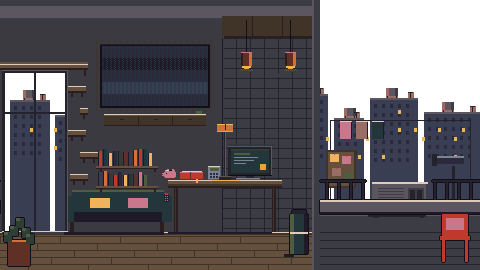
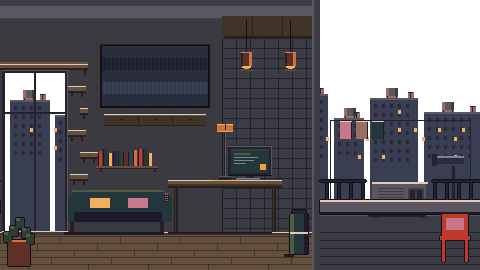
Update the live alivelog room with a board script.
Replace alivelog-room with the uploaded live20b files, unchanged.

Changed region(s): [[0.6562, 0.5333, 0.75, 0.7111], [0.1875, 0.6222, 0.3438, 0.7111], [0.3438, 0.5926, 0.4688, 0.6815]]

diff --git a/alivelog-room/board.js b/alivelog-room/board.js
@@ -1,0 +1,88 @@
+// ---- 軟木板便利貼（磁磚牆上，小版 x250–292、y88–128）：狀態存 localStorage 'alivelog.board' ----
+// 點板上空白處＝新增（下方一行輸入框＋5 色）；點便利貼＝放大編輯；拖曳（移動 >4px 才開始）；長按 0.7 秒＝進度圈滿了撕掉（放開就取消）
+// 板子本體由本檔畫（room_fg 背景裡不畫，免得重複）；便利貼上的字只畫成橫條，不在房間畫面上顯示內容
+(function(){
+const KEY='alivelog.board',BX=250,BY=88,BW=43,BH=41,IX0=BX+3,IY0=BY+3,IX1=BX+BW-3,IY1=BY+BH-3,NW=12,NH=11,MAX=6,LONG=700,DRAG=4;
+const COLS=['#f0c85a','#dc8c96','#6eb4aa','#a0c86e','#c8c8be'];
+const st=(()=>{try{const j=JSON.parse(localStorage.getItem(KEY));if(j&&Array.isArray(j.notes))return j}catch(e){}return{notes:[]}})();
+const save=()=>localStorage.setItem(KEY,JSON.stringify(st));
+const cv=document.createElement('canvas');cv.width=480;cv.height=270;cv.className='px';cv.id='boardcv';cv.style.pointerEvents='none';
+document.getElementById('fg').after(cv);   // 在房間圖之後、lights.js 調暗層之前 → 關燈時一起變暗
+const g=cv.getContext('2d');g.imageSmoothingEnabled=false;
+const R=(x,y,w,h,c)=>{g.fillStyle=c;g.fillRect(x,y,w,h)};
+// 軟木斑點（固定亂數）
+const SPK=[];{let s=3;const r=()=>(s=(s*16807)%2147483647)/2147483647;for(let i=0;i<60;i++)SPK.push([BX+2+Math.floor(r()*(BW-4)),BY+2+Math.floor(r()*(BH-4)),r()<.5?'#96683e':'#c49662'])}
+let drag=null,press=null;   // drag:{id,x,y}；press:{id,t0,k}
+function noteAt(n,x,y,lift){if(lift)R(x+1,y+1,NW,NH,'rgba(10,10,14,.55)');R(x,y,NW,NH,COLS[n.c]||COLS[0]);
+  const L=(n.t||'').length,lines=L?Math.min(3,Math.ceil(L/8)):0;for(let i=0;i<lines;i++)R(x+2,y+3+i*3,Math.max(2,Math.min(8,L-i*8)),1,'#5a463c');   // 字只畫成長短橫條
+  R(x+5,y,2,2,'#c8463a');R(x+5,y,1,1,'#ffb4aa')}                                                            // 紅圖釘
+function draw(){g.clearRect(0,0,480,270);
+  R(BX,BY,BW,BH,'#7a4e2c');R(BX+2,BY+2,BW-4,BH-4,'#b08050');R(BX,BY,BW,1,'#96683e');for(const[x,y,c]of SPK)R(x,y,1,1,c);
+  for(const n of st.notes){if(drag&&drag.id===n.id)continue;noteAt(n,n.x,n.y)}
+  if(drag){const n=find(drag.id);if(n)noteAt(n,drag.x,drag.y,true)}
+  if(press&&press.k>0){const n=find(press.id);if(n){const cx=n.x+NW/2,cy=n.y+NH/2,N=16;for(let i=0;i<Math.round(N*press.k);i++){const a=-Math.PI/2+i/N*Math.PI*2;R(Math.round(cx+Math.cos(a)*8),Math.round(cy+Math.sin(a)*8),1,1,'#f0ece2')}}}
+  cv.dataset.n=st.notes.length}
+const find=id=>st.notes.find(n=>n.id===id);
+const clampX=x=>Math.max(IX0,Math.min(IX1-NW,Math.round(x))),clampY=y=>Math.max(IY0,Math.min(IY1-NH,Math.round(y)));
+// 每張便利貼一個點擊區（touch-action:none：按在便利貼上不會觸發房間平移）
+const hits=new Map();
+function syncHits(){for(const[id,h]of hits)if(!find(id)){h.remove();hits.delete(id)}
+  for(const n of st.notes)if(!hits.has(n.id)){const h=document.createElement('div');h.className='notehit';h.dataset.id=n.id;h.style.cssText='position:absolute;z-index:4;cursor:grab;touch-action:none';bind(h,n.id);document.body.appendChild(h);hits.set(n.id,h)}
+  place()}
+function place(){const V=window.VIEW;if(!V)return;const S=V.s;Object.assign(cv.style,{left:V.ox+'px',top:V.oy+'px',width:Math.round(480*S)+'px',height:Math.round(270*S)+'px'});
+  for(const[id,h]of hits){const n=find(id);if(!n)continue;const x=drag&&drag.id===id?drag.x:n.x,y=drag&&drag.id===id?drag.y:n.y;
+    Object.assign(h.style,{left:V.ox+(x-1)*S+'px',top:V.oy+(y-1)*S+'px',width:(NW+2)*S+'px',height:(NH+2)*S+'px'})}}
+const toRoom=e=>{const V=window.VIEW||{s:1,ox:0,oy:0};return{x:(e.clientX-V.ox)/V.s,y:(e.clientY-V.oy)/V.s}};
+function bind(h,id){
+  h.addEventListener('pointerdown',e=>{e.stopPropagation();try{h.setPointerCapture(e.pointerId)}catch(_){}const p=toRoom(e),n=find(id);
+    press={id,t0:performance.now(),k:0,sx:e.clientX,sy:e.clientY,dx:p.x-n.x,dy:p.y-n.y,moved:false};
+    (function f(){if(!press||press.id!==id||press.moved)return;press.k=Math.min(1,(performance.now()-press.t0-150)/(LONG-150));draw();
+      if(press.k>=1){tear(id);return}requestAnimationFrame(f)})()});
+  h.addEventListener('pointermove',e=>{if(!press||press.id!==id)return;
+    if(!press.moved&&Math.hypot(e.clientX-press.sx,e.clientY-press.sy)>DRAG*((window.VIEW||{s:1}).s>1?1:1)){press.moved=true;press.k=0;h.style.cursor='grabbing'}
+    if(press.moved){const p=toRoom(e);drag={id,x:clampX(p.x-press.dx),y:clampY(p.y-press.dy)};draw();place()}});
+  const up=e=>{e.stopPropagation();if(!press||press.id!==id)return;const pr=press;press=null;h.style.cursor='grab';
+    if(pr.moved&&drag){const n=find(id);n.x=drag.x;n.y=drag.y;drag=null;save();window.BOARDEV.push('drag')}
+    else if(pr.k<.25&&performance.now()-pr.t0<LONG*.5)edit(id);   // 短按＝編輯；按一半放開＝取消
+    else window.BOARDEV.push('cancel');
+    draw();place()};
+  h.addEventListener('pointerup',up);h.addEventListener('pointercancel',e=>{press=null;drag=null;draw();place()});h.addEventListener('click',e=>e.stopPropagation())}
+function tear(id){const n=find(id);press=null;if(!n)return;const x0=n.x,y0=n.y,t0=performance.now();window.BOARDEV.push('tear');
+  st.notes=st.notes.filter(m=>m.id!==id);save();syncHits();
+  (function f(){const k=(performance.now()-t0)/450;draw();if(k>=1){draw();return}g.save();g.globalAlpha=1-k;g.translate(x0+NW/2+k*6,y0+NH/2+k*22);g.rotate(k*.6);
+    g.fillStyle=COLS[n.c]||COLS[0];g.fillRect(-NW/2,-NH/2,NW,NH);g.restore();requestAnimationFrame(f)})();
+  bubble('撕掉了',x0,y0-8)}
+// 點板子空白處＝新增：平移是 index.html 從 fg 開始的拖曳，我們只在「沒有移動」的點擊才新增 → 不搶平移
+let tap=null;
+addEventListener('pointerdown',e=>{const t=e.target;if(!(t===document.body||t.id==='fg'||t.id==='amb'||t.id==='sky'))return;const p=toRoom(e);
+  if(p.x>=BX&&p.x<BX+BW&&p.y>=BY&&p.y<BY+BH)tap={x:e.clientX,y:e.clientY,p};else tap=null});
+addEventListener('pointerup',e=>{if(!tap)return;const T=tap;tap=null;if(Math.hypot(e.clientX-T.x,e.clientY-T.y)>6)return;
+  if(st.notes.length>=MAX){bubble('板子滿了，先撕一張',BX-6,BY-8);return}
+  compose({x:clampX(T.p.x-NW/2),y:clampY(T.p.y-NH/2)})});
+// ---- 輸入介面（HTML overlay，手機鍵盤可用）----
+const ui=document.createElement('div');ui.id='boardui';
+ui.style.cssText='position:fixed;left:50%;bottom:12px;transform:translateX(-50%);z-index:20;display:none;background:#120f1a;border:2px solid #f0b25a;box-shadow:4px 4px 0 #05070a;padding:8px;font:14px monospace;color:#e0cbb8;width:min(92vw,360px);box-sizing:border-box';
+ui.innerHTML='<div id="bcols" style="display:flex;gap:8px;margin-bottom:8px"></div><textarea id="btext" rows="1" maxlength="60" placeholder="寫一句…" style="width:100%;box-sizing:border-box;font:16px monospace;background:#e0cbb8;color:#120f1a;border:0;padding:6px;resize:none"></textarea>'+
+  '<div style="display:flex;gap:8px;justify-content:flex-end;margin-top:8px"><button id="bcancel">取消</button><button id="bok">貼上</button></div>';
+document.body.appendChild(ui);for(const b of ui.querySelectorAll('button'))b.style.cssText='font:14px monospace;background:#120f1a;color:#f0b25a;border:2px solid #f0b25a;padding:6px 12px';
+const $=id=>ui.querySelector('#'+id);let cur=null,selC=0;
+COLS.forEach((c,i)=>{const d=document.createElement('div');d.className='bcol';d.dataset.c=i;d.style.cssText=`width:28px;height:28px;background:${c};border:2px solid #120f1a;cursor:pointer`;d.addEventListener('pointerup',e=>{e.stopPropagation();pick(i)});$('bcols').appendChild(d)});
+function pick(i){selC=i;ui.querySelectorAll('.bcol').forEach((d,k)=>d.style.borderColor=k===i?'#f0ece2':'#120f1a')}
+for(const ev of['pointerdown','pointerup','click'])ui.addEventListener(ev,e=>e.stopPropagation());
+function compose(pos){cur={mode:'new',pos};$('btext').rows=1;$('btext').value='';$('bok').textContent='貼上';pick(st.notes.length%5);open()}
+function edit(id){const n=find(id);if(!n)return;cur={mode:'edit',id};$('btext').rows=3;$('btext').value=n.t||'';$('bok').textContent='確定';pick(n.c||0);open();window.BOARDEV.push('edit')}
+function open(){ui.style.display='block';ui.dataset.mode=cur.mode;setTimeout(()=>$('btext').focus(),0)}
+function close(){ui.style.display='none';cur=null;$('btext').blur()}
+function ok(){if(!cur)return;const t=$('btext').value.trim().slice(0,60);
+  if(cur.mode==='new'){if(t){st.notes.push({id:Date.now().toString(36)+Math.random().toString(36).slice(2,5),x:cur.pos.x,y:cur.pos.y,c:selC,t,at:Date.now()});window.BOARDEV.push('add')}}
+  else{const n=find(cur.id);if(n){n.t=t;n.c=selC}}
+  save();close();syncHits();draw()}
+$('bok').addEventListener('pointerup',ok);$('bcancel').addEventListener('pointerup',close);
+$('btext').addEventListener('keydown',e=>{e.stopPropagation();if(e.key==='Enter'&&!e.shiftKey&&cur&&cur.mode==='new'){e.preventDefault();ok()}if(e.key==='Escape')close()});
+function bubble(t,x,y){const V=window.VIEW||{s:1,ox:0,oy:0},d=document.createElement('div');d.textContent=t;
+  d.style.cssText=`position:absolute;z-index:6;pointer-events:none;font:bold ${Math.max(12,Math.round(V.s*6))}px monospace;color:#f0b25a;text-shadow:2px 2px 0 #05070a;left:${V.ox+x*V.s}px;top:${V.oy+y*V.s}px`;
+  document.body.appendChild(d);setTimeout(()=>d.remove(),1000)}
+window.BOARDEV=[];
+addEventListener('alivelog:layout',place);syncHits();draw();
+window.BOARD={get notes(){return st.notes.map(n=>Object.assign({},n))},get ui(){return cur&&cur.mode},clear(){st.notes=[];save();syncHits();draw()}};
+})();

diff --git a/alivelog-room/cat.js b/alivelog-room/cat.js
@@ -9,10 +9,23 @@ menu.style.cssText='position:absolute;z-index:8;display:none;background:#120f1a;
 B.forEach(b=>{const d=document.createElement('div');d.textContent=b;d.dataset.b=b;d.style.cssText='padding:7px 12px;cursor:pointer;border-bottom:1px solid #3c3c44';menu.appendChild(d)});
 document.body.append(cv,hit,menu);
 const get=()=>{try{return JSON.parse(localStorage.getItem(KEY))||[]}catch(e){return[]}};
-function add(b){const d=new Date(),L=get();L.push({ts:d.toISOString(),behavior:b,weekday:d.getDay(),hour:d.getHours()});localStorage.setItem(KEY,JSON.stringify(L));pose();flash(b)}
+function add(b){const d=new Date(),L=get();L.push({ts:d.toISOString(),behavior:b,weekday:d.getDay(),hour:d.getHours()});localStorage.setItem(KEY,JSON.stringify(L));if(napUntil){napUntil=0;saveState()}pose();flash(b)}
 // ---- Neko 的貓 sprite 播放器＋移動（全部依 neko/cat_sheet.json：animations / spots / paths；Neko 換圖只要覆蓋 json+png）----
 let follow=false,SHEET=null,IMG=null,cur=null,fi=0,ft=0,nextAt={},pos={x:CAT.x,y:CAT.y},Q=[],act=null,spot='ac_perch',zoomLast=0;
-const sleepNow=()=>{const l=get().slice(-1)[0];return !!(l&&l.behavior==='睡')};
+let napUntil=0;   // 夜裡載入時的「睡著」狀態：只是外觀，不寫進行為紀錄；記任何行為或到早上 7 點就結束
+const sleepNow=()=>{if(napUntil&&Date.now()<napUntil)return true;const l=get().slice(-1)[0];return !!(l&&l.behavior==='睡')};
+// ---- 記住貓在哪：localStorage 'alivelog.cat.state' = {spot,pose,ts,napUntil} ----
+const SKEY='alivelog.cat.state';let lastSpot='ac_perch';
+function saveState(){try{localStorage.setItem(SKEY,JSON.stringify({spot:lastSpot,pose:(window.CATPOS&&CATPOS.pose)||null,ts:Date.now(),napUntil}))}catch(e){}}
+addEventListener('pagehide',saveState);document.addEventListener('visibilitychange',()=>{if(document.hidden)saveState()});
+const tpeHour=()=>+new Intl.DateTimeFormat('en-GB',{timeZone:'Asia/Taipei',hour:'numeric',hourCycle:'h23'}).format(new Date());
+function next7(){const h=tpeHour(),hrs=h>=23?(24-h+7):(7-h);const d=new Date(Date.now()+hrs*3600e3);d.setMinutes(0,0,0);return d.getTime()}
+function startSpot(spots){let sv=null;try{sv=JSON.parse(localStorage.getItem(SKEY))}catch(e){}
+  if(sv&&spots[sv.spot]&&Date.now()-sv.ts<30*60e3){napUntil=sv.napUntil&&sv.napUntil>Date.now()?sv.napUntil:0;return{spot:sv.spot,how:'resume'}}
+  const W={ac_perch:3,floor_mid:2,window_gaze:2,walkway_lie:2,walkway_sit:1},h=tpeHour(),night=h>=23||h<7;
+  let napping=night&&Math.random()<.6;const pool=Object.keys(W).filter(k=>spots[k]&&(!napping||!['window_gaze','walkway_sit'].includes(k)));   // 睡覺只選能趴的地方
+  let r=Math.random()*pool.reduce((a,k)=>a+W[k],0),pick=pool[0];for(const k of pool){r-=W[k];if(r<=0){pick=k;break}}
+  napUntil=napping?next7():0;return{spot:pick,how:napping?'random_nap':'random'}}
 const has=a=>SHEET&&SHEET.animations&&SHEET.animations[a];
 const rnd=(a,b)=>a+Math.random()*(b-a);
 // 找動畫：沒有 *_right 就用 *_left 鏡像（反之亦然）；都沒有就退回 breathe
@@ -37,7 +50,7 @@ function setPos(p){pos={x:p[0],y:p[1]};place();upd()}
 // window.CATPOS：給 dust.js 等物件用（frame 左上角、room 座標、pose=lie|sit|walk）
 const LIEA=['breathe','blink','tail_swish','ear_twitch','lick','stretch','sneeze_lie'],SITA=['sit_gaze_window','zoom_pant','zoom_nonchalant','sneeze_sit','dust_shake','duster_paw','rub_face'];
 function poseNow(){const a=cur&&cur.anim;if(act&&act.to)return'walk';if(spot==='walkway_sit')return'sit';if(spot==='walkway_lie'||spot==='ac_perch')return'lie';if(LIEA.includes(a))return'lie';if(SITA.includes(a))return'sit';return/walk|run|skid|turn|bump/.test(a)?'walk':'sit'}
-function upd(){window.CATPOS={x:Math.round(pos.x),y:Math.round(pos.y),w:CAT.w,h:CAT.h,pose:poseNow(),spot}}
+function upd(){if(spot!=='moving'&&spot!==lastSpot){lastSpot=spot;saveState()}window.CATPOS={x:Math.round(pos.x),y:Math.round(pos.y),w:CAT.w,h:CAT.h,pose:poseNow(),spot}}
 function draw1(){const A=SHEET.animations[cur.anim];let name=A.frames[Math.min(fi,A.frames.length-1)];
   if(sleepNow()&&cur.anim==='breathe'&&has('blink')){const bf=SHEET.animations.blink.frames;name=bf[Math.min(1,bf.length-1)]}
   frameDraw(name,cur.mir);upd();if(act&&act.onFrame)act.onFrame(fi)}
@@ -104,7 +117,10 @@ window.onCatEvent=function(type,detail){dispatchEvent(new CustomEvent('alivelog:
   if(type==='knock'){const r=hit.getBoundingClientRect(),d=document.createElement('div');d.textContent='!';d.style.cssText='position:absolute;z-index:6;pointer-events:none;font:bold 18px monospace;color:#f0b25a;text-shadow:2px 2px 0 #05070a;left:'+(r.left+r.width*.2)+'px;top:'+(r.top-20)+'px';document.body.appendChild(d);setTimeout(()=>d.remove(),700)}};
 function boot(){fetch('neko/cat_sheet.json',{cache:'no-store'}).then(r=>r.json()).then(j=>{SHEET=j;
   const ac=(j.spots&&j.spots.ac_perch&&j.spots.ac_perch.frame_topleft)||j.anchor_in_room_fg;if(ac){CAT.x=ac[0];CAT.y=ac[1]}if(j.frameSize){CAT.w=j.frameSize[0];CAT.h=j.frameSize[1]}
-  pos={x:CAT.x,y:CAT.y};spot='ac_perch';cv.width=CAT.w;cv.height=CAT.h;place();IMG=new Image();IMG.onload=()=>{schedule(performance.now());idle()};IMG.src='neko/cat_sheet.png?v='+Date.now()}).catch(e=>window.CATERR=String(e))}
+  const ss=startSpot(j.spots||{}),tl=(j.spots&&j.spots[ss.spot]&&j.spots[ss.spot].frame_topleft)||[CAT.x,CAT.y];window.CATSTART=Object.assign({napUntil},ss);
+  pos={x:tl[0],y:tl[1]};spot=ss.spot;lastSpot=spot;cv.width=CAT.w;cv.height=CAT.h;place();IMG=new Image();
+  // 第一次走動提早到 5–20 秒
+  IMG.onload=()=>{const now=performance.now();schedule(now);if(!sleepNow())nextAt.move=now+rnd(5e3,20e3);idle();saveState()};IMG.src='neko/cat_sheet.png?v='+Date.now()}).catch(e=>window.CATERR=String(e))}
 requestAnimationFrame(tick);
 function pose(){if(SHEET&&cur){schedule(performance.now());if(sleepNow()&&(Q.length||act&&!act.idle)){Q=[];if(spot==='moving')spot='floor_mid';cv.style.opacity=1;idle()}draw1()}}   // 記「睡」→ 原地停下睡
 window.CATSPRITE={get anim(){return cur&&cur.anim},get frame(){return cv.dataset.frame},get mirror(){return cv.dataset.mirror==='1'},get pos(){return Object.assign({},pos)},get spot(){return spot},get queue(){return Q.length},

diff --git a/alivelog-room/index.html b/alivelog-room/index.html
@@ -244,6 +244,6 @@ const n=ac.createBufferSource(),len=ac.sampleRate*2,b=ac.createBuffer(1,len,ac.s
   n.connect(lp).connect(gn).connect(ac.destination);n.start(t);n.stop(t+sec+.1)}
 addEventListener('resize',layout);layout();noise(300,()=>osdText('CH 1',1500));requestAnimationFrame(tick);schedule();
 </script>
-<script src="mon.js"></script><script src="cat.js"></script><script src="world.js"></script><script src="bias.js"></script><script src="lights.js"></script><script src="knock.js"></script><script src="dust.js"></script><script src="remote.js"></script>
+<script src="mon.js"></script><script src="cat.js"></script><script src="world.js"></script><script src="bias.js"></script><script src="lights.js"></script><script src="knock.js"></script><script src="board.js"></script><script src="dust.js"></script><script src="remote.js"></script>
 <script src="https://www.youtube.com/iframe_api"></script>
 </body></html>

diff --git a/alivelog-room/world.js b/alivelog-room/world.js
@@ -69,8 +69,7 @@ document.addEventListener('pointerdown',e=>{if(mb.style.display==='block'&&e.tar
 setInterval(()=>{if(mb.style.display==='block')moonBig()},10000);
 function amb(now){a.clearRect(0,0,480,270);const sl=sleeping(),T=(now-t0)/1000;
   // 貓的動畫改由 cat.js 的 Neko sprite 播放
-  // 盆栽搖擺
-  const sw=Math.sin(T*1.3)>0.6?1:0;if(sw){R(196,109,1,2,P.green);R(201,111,1,2,P.leaf)}
+  // （電視櫃小盆栽已移除，搖擺動畫一併拿掉）
   // 檯燈極輕微閃爍
   if(Math.random()<.03)R(212,180,28,1,'rgba(18,15,26,.35)');
   // 馬克杯＋蒸氣
